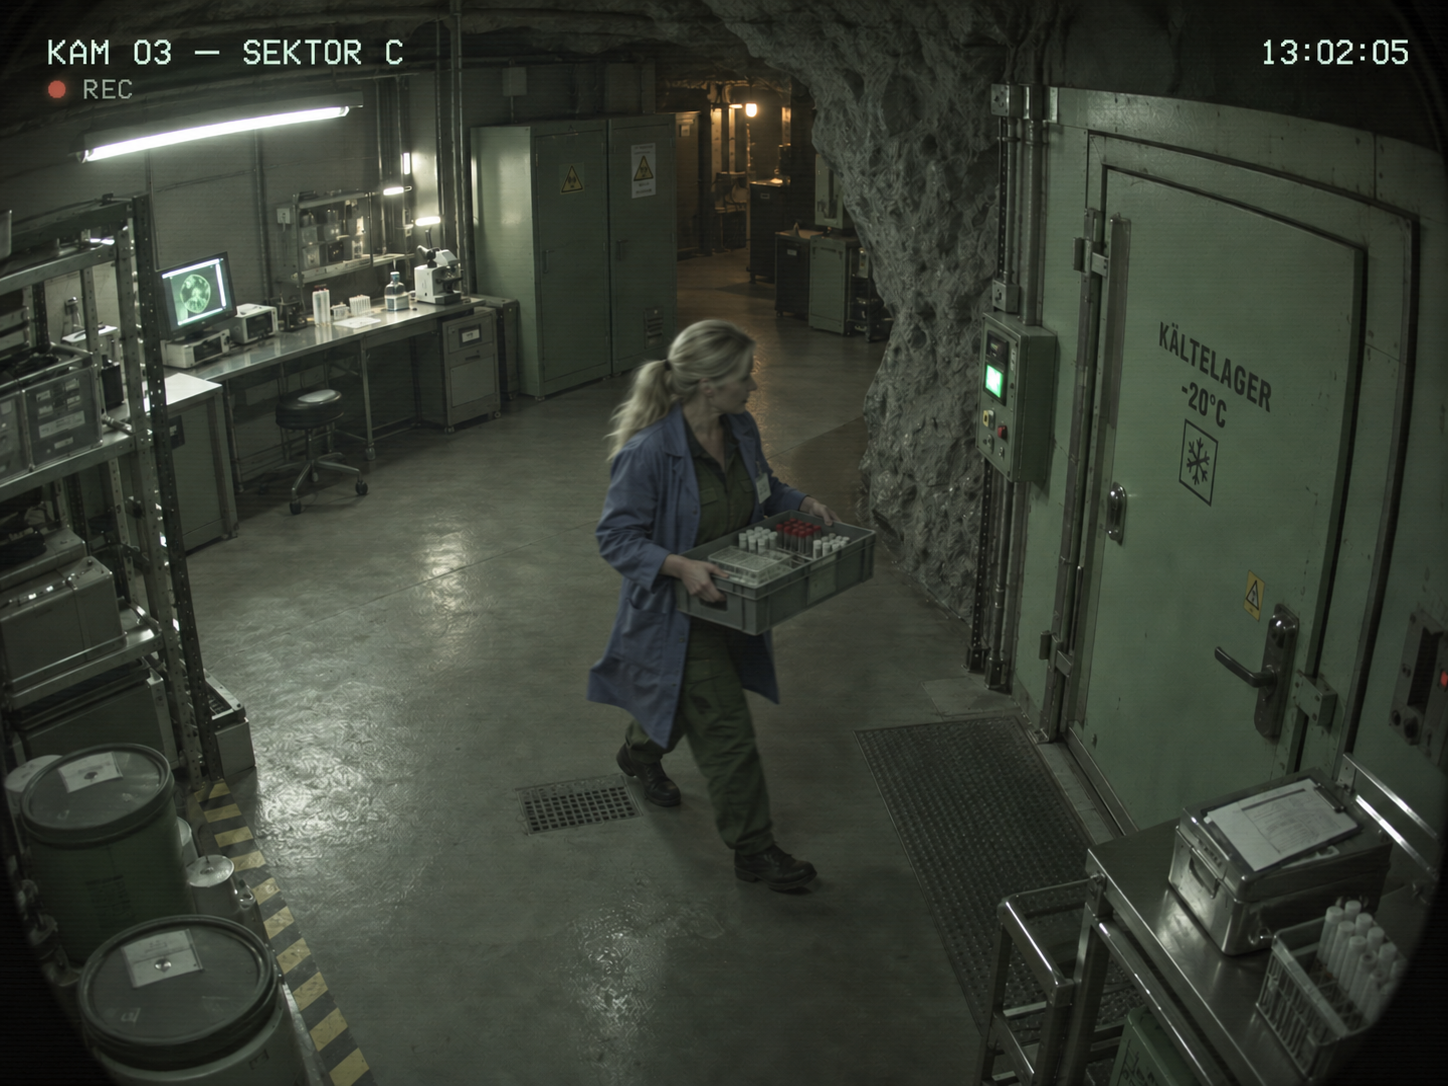
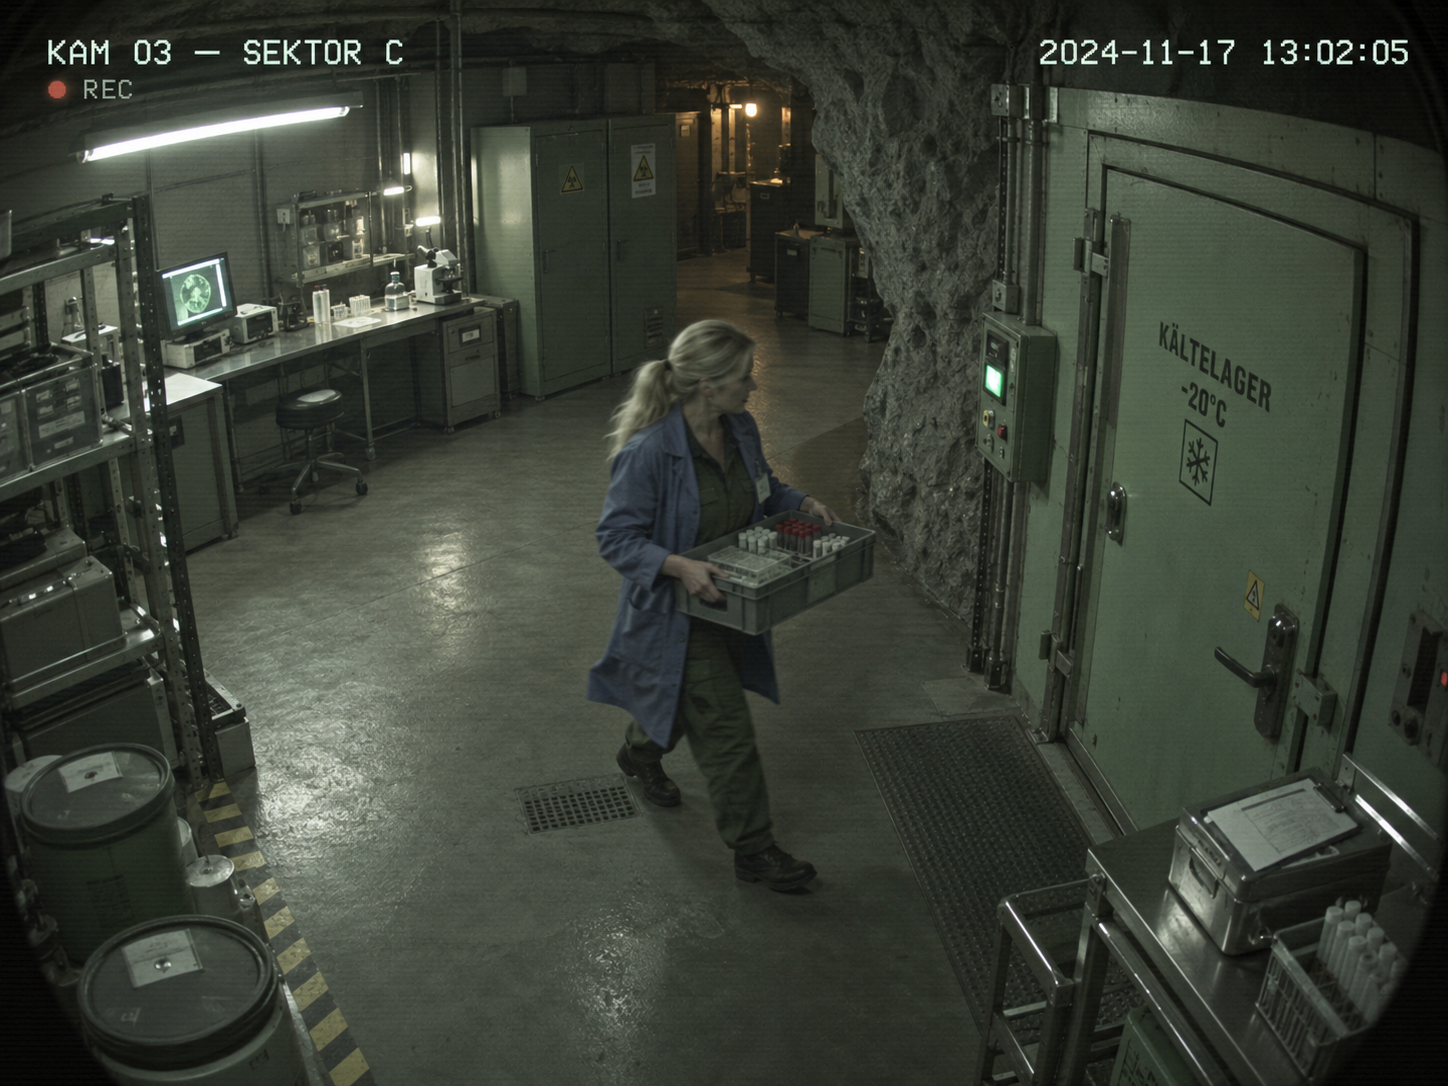
Riktiga porträtt + exit-panel + kamera-låsning + NUC-snabbguide
Kopplar in riktiga övervakningsbilder (Ravi/Maj/Tomas/Iris + Dana). Lägger till
FacilitatorControls (Paus/Nollställ/Avsluta→skrivbordet, med bekräftelse) + store
quitStation/quit-synk, speglat mot Förhandlingen. Dino-Lite-låsning: config.cameraLabel
('dino' matchar 'Dino-Lite Premier') + kamera-dropdown som manuell reserv i mikroskopet;
kiosk.sh auto-godkänner kamera (--use-fake-ui-for-media-stream). Snabbguide för NUC:
två skärmar, skrivbordsstart, INGEN autostart (deploy/nuc/SNABBGUIDE.md).

13 tester gröna, bygge rent.

Changed region(s): [[0.7148, 0.0304, 0.8702, 0.0608], [0.1865, 0.6989, 0.2486, 0.7901], [0.9012, 0.0304, 0.9323, 0.0608]]

diff --git a/src/stations/undersokningen/components/Microscope.vue b/src/stations/undersokningen/components/Microscope.vue
@@ -1,11 +1,12 @@
 <script setup lang="ts">
 /**
- * Dino-Lite-vy (labb-sidan). Mikroskopet ansluts som en vanlig USB-webbkamera —
- * öppnas via getUserMedia och väljer automatiskt den `videoinput` vars namn
- * innehåller "dino". Portad från den fristående public/mikroskop/index.html.
- * Tål att ingen kamera finns (visar ett meddelande istället för att krascha).
+ * Dino-Lite-vy (labb-sidan). Mikroskopet ansluts som en USB-webbkamera och
+ * väljs automatiskt på namnet (config.cameraLabel, "dino" → "Dino-Lite Premier").
+ * En kamera-dropdown finns som manuell reserv ifall auto-valet missar på NUC:en.
+ * Portad från public/mikroskop/index.html. Tål att ingen kamera finns.
  */
 import { ref, onMounted, onBeforeUnmount } from 'vue'
+import { config } from '@/config'
 import { useI18n } from '@/station-kit/i18n'
 import Icon from './Icon.vue'
 
@@ -14,11 +15,20 @@ const video = ref<HTMLVideoElement | null>(null)
 const msg = ref<string>('')
 const mirror = ref(false)
 const frozen = ref(false)
+const cameras = ref<MediaDeviceInfo[]>([])
+const currentId = ref<string>('')
 let stream: MediaStream | null = null
 
-function pickDino(devices: MediaDeviceInfo[]): string | undefined {
-  const dino = devices.find((d) => /dino/i.test(d.label))
-  return (dino ?? devices[0])?.deviceId
+function pickDevice(devices: MediaDeviceInfo[]): string | undefined {
+  const needle = config.cameraLabel.toLowerCase()
+  const match = devices.find((d) => d.label.toLowerCase().includes(needle))
+  return (match ?? devices[0])?.deviceId
+}
+
+async function listCameras(): Promise<MediaDeviceInfo[]> {
+  const devices = (await navigator.mediaDevices.enumerateDevices()).filter((d) => d.kind === 'videoinput')
+  cameras.value = devices
+  return devices
 }
 
 async function start(deviceId?: string): Promise<MediaDeviceInfo[] | undefined> {
@@ -37,7 +47,9 @@ async function start(deviceId?: string): Promise<MediaDeviceInfo[] | undefined> 
       void video.value.play().catch(() => {})
     }
     msg.value = ''
-    return (await navigator.mediaDevices.enumerateDevices()).filter((d) => d.kind === 'videoinput')
+    const track = stream.getVideoTracks()[0]
+    currentId.value = track?.getSettings().deviceId ?? deviceId ?? ''
+    return await listCameras()
   } catch (err) {
     const e = err as DOMException
     msg.value = `${t('mikroskop.failed')} (${e.name})`
@@ -45,6 +57,10 @@ async function start(deviceId?: string): Promise<MediaDeviceInfo[] | undefined> 
   }
 }
 
+function onPick(e: Event): void {
+  const id = (e.target as HTMLSelectElement).value
+  if (id) void start(id)
+}
 function toggleMirror(): void {
   mirror.value = !mirror.value
 }
@@ -62,9 +78,8 @@ onMounted(async () => {
   }
   const devices = await start()
   if (devices && devices.length) {
-    const want = pickDino(devices)
-    const current = stream?.getVideoTracks()[0]?.getSettings().deviceId
-    if (want && want !== current) await start(want)
+    const want = pickDevice(devices)
+    if (want && want !== currentId.value) await start(want)
   }
 })
 
@@ -78,13 +93,14 @@ onBeforeUnmount(() => {
     <div class="scope__head">
       <Icon name="mikroskop" :size="18" />
       <span class="scope__title">{{ t('mikroskop.title') }}</span>
+      <select v-if="cameras.length > 1" class="scope__cam" :value="currentId" @change="onPick">
+        <option v-for="(c, i) in cameras" :key="c.deviceId" :value="c.deviceId">
+          {{ c.label || ('Kamera ' + (i + 1)) }}
+        </option>
+      </select>
       <div class="scope__tools">
-        <button class="scope__btn" :class="{ 'scope__btn--on': mirror }" @click="toggleMirror">
-          {{ t('mikroskop.mirror') }}
-        </button>
-        <button class="scope__btn" :class="{ 'scope__btn--on': frozen }" @click="toggleFreeze">
-          {{ t('mikroskop.freeze') }}
-        </button>
+        <button class="scope__btn" :class="{ 'scope__btn--on': mirror }" @click="toggleMirror">{{ t('mikroskop.mirror') }}</button>
+        <button class="scope__btn" :class="{ 'scope__btn--on': frozen }" @click="toggleFreeze">{{ t('mikroskop.freeze') }}</button>
       </div>
     </div>
     <div class="scope__stage">
@@ -99,74 +115,21 @@ onBeforeUnmount(() => {
 </template>
 
 <style scoped>
-.scope {
-  display: flex;
-  flex-direction: column;
-  min-height: 0;
-  overflow: hidden;
+.scope { display: flex; flex-direction: column; min-height: 0; overflow: hidden; }
+.scope__head { display: flex; align-items: center; gap: 0.5rem; padding: 0.4rem 0.7rem; border-bottom: 1px solid var(--color-primary-dim); }
+.scope__title { font-family: var(--font-retro); letter-spacing: 0.08em; color: var(--color-primary); }
+.scope__cam {
+  font-family: var(--font-mono); font-size: 0.75rem; color: var(--color-ink-muted);
+  background: var(--color-background-2); border: 1px solid var(--color-primary-dim); border-radius: 6px;
+  padding: 0.1em 0.4em; max-width: 12rem;
 }
-.scope__head {
-  display: flex;
-  align-items: center;
-  gap: 0.5rem;
-  padding: 0.4rem 0.7rem;
-  border-bottom: 1px solid var(--color-primary-dim);
-}
-.scope__title {
-  font-family: var(--font-retro);
-  letter-spacing: 0.08em;
-  color: var(--color-primary);
-  flex: 1;
-}
-.scope__tools {
-  display: flex;
-  gap: 0.4rem;
-}
-.scope__btn {
-  font-family: var(--font-mono);
-  font-size: 0.8rem;
-  color: var(--color-ink-muted);
-  background: var(--color-background-2);
-  border: 1px solid var(--color-primary-dim);
-  border-radius: 6px;
-  padding: 0.15em 0.6em;
-  cursor: pointer;
-}
-.scope__btn--on {
-  color: var(--color-ink-strong);
-  border-color: var(--color-primary);
-}
-.scope__stage {
-  position: relative;
-  flex: 1;
-  min-height: 0;
-  display: flex;
-  align-items: center;
-  justify-content: center;
-  background: #000;
-}
-.scope__video {
-  max-width: 100%;
-  max-height: 100%;
-  display: block;
-}
-.scope__video--mirror {
-  transform: scaleX(-1);
-}
-.scope__msg {
-  position: absolute;
-  inset: 0;
-  display: flex;
-  flex-direction: column;
-  align-items: center;
-  justify-content: center;
-  gap: 0.5rem;
-  text-align: center;
-  padding: 1rem;
-  color: var(--color-ink-muted);
-  font-family: var(--font-mono);
-}
-.scope__hint {
-  font-size: 0.8rem;
-}
+.scope__tools { margin-left: auto; display: flex; gap: 0.4rem; }
+.scope__btn { font-family: var(--font-mono); font-size: 0.8rem; color: var(--color-ink-muted); background: var(--color-background-2); border: 1px solid var(--color-primary-dim); border-radius: 6px; padding: 0.15em 0.6em; cursor: pointer; transition: transform 0.14s var(--ease-out); }
+.scope__btn:active { transform: scale(0.96); }
+.scope__btn--on { color: var(--color-ink-strong); border-color: var(--color-primary); }
+.scope__stage { position: relative; flex: 1; min-height: 0; display: flex; align-items: center; justify-content: center; background: #000; }
+.scope__video { max-width: 100%; max-height: 100%; display: block; }
+.scope__video--mirror { transform: scaleX(-1); }
+.scope__msg { position: absolute; inset: 0; display: flex; flex-direction: column; align-items: center; justify-content: center; gap: 0.5rem; text-align: center; padding: 1rem; color: var(--color-ink-muted); font-family: var(--font-mono); }
+.scope__hint { font-size: 0.8rem; }
 </style>

diff --git a/src/stations/undersokningen/components/FacilitatorControls.vue b/src/stations/undersokningen/components/FacilitatorControls.vue
@@ -1,0 +1,60 @@
+<script setup lang="ts">
+/**
+ * Diskret facilitator-kontroll i ett hörn — finns i BÅDE pilot och drift.
+ *   - Paus: fryser och lägger paus-overlay på båda skärmar.
+ *   - Nollställ: tillbaka till attract (med bekräftelse).
+ *   - Avsluta: stänger stationen → tillbaka till skrivbordet (med bekräftelse).
+ */
+import { ref } from 'vue'
+import { useUndersokningenStore } from '../store/undersokningenStore'
+import { useI18n } from '@/station-kit/i18n'
+
+const store = useUndersokningenStore()
+const { t } = useI18n()
+const confirm = ref<'' | 'reset' | 'exit'>('')
+
+function doReset() {
+  confirm.value = ''
+  store.reset()
+}
+function doExit() {
+  confirm.value = ''
+  store.quitStation()
+}
+</script>
+
+<template>
+  <div class="facil">
+    <div v-if="confirm === 'reset'" class="facil__confirm">
+      <span class="facil__confirm-q">{{ t('facil.reset_confirm') }}</span>
+      <div class="facil__confirm-row">
+        <button class="crt-button crt-button--danger facil__btn" @click="doReset">{{ t('facil.reset_yes') }}</button>
+        <button class="crt-button facil__btn" @click="confirm = ''">{{ t('facil.cancel') }}</button>
+      </div>
+    </div>
+    <div v-else-if="confirm === 'exit'" class="facil__confirm">
+      <span class="facil__confirm-q">{{ t('facil.exit_confirm') }}</span>
+      <div class="facil__confirm-row">
+        <button class="crt-button crt-button--danger facil__btn" @click="doExit">{{ t('facil.exit_yes') }}</button>
+        <button class="crt-button facil__btn" @click="confirm = ''">{{ t('facil.cancel') }}</button>
+      </div>
+    </div>
+    <div v-else class="facil__row">
+      <button class="crt-button facil__btn" :class="{ 'crt-button--strong': store.paused }" @click="store.togglePause()">
+        {{ store.paused ? '▶ ' + t('facil.resume') : '⏸ ' + t('facil.pause') }}
+      </button>
+      <button class="crt-button facil__btn facil__dim" @click="confirm = 'reset'">⟲ {{ t('facil.reset') }}</button>
+      <button class="crt-button facil__btn facil__dim" @click="confirm = 'exit'">✕ {{ t('facil.exit') }}</button>
+    </div>
+  </div>
+</template>
+
+<style scoped>
+.facil { position: fixed; left: 0.75rem; bottom: 3rem; z-index: 360; font-family: var(--font-retro); }
+.facil__row, .facil__confirm-row { display: flex; gap: 0.4rem; }
+.facil__confirm { display: flex; flex-direction: column; gap: 0.4rem; background: var(--color-background-2); border: 1px solid var(--color-primary); border-radius: 8px; padding: 0.6rem; box-shadow: 0 0 20px rgba(0, 0, 0, 0.5); }
+.facil__confirm-q { color: var(--color-ink-strong); font-size: 0.95rem; }
+.facil__btn { font-size: 0.9rem; padding: 0.25em 0.7em; opacity: 0.82; }
+.facil__btn:hover { opacity: 1; }
+.facil__dim { color: var(--color-ink-muted); border-color: var(--color-primary-dim); }
+</style>

diff --git a/src/stations/undersokningen/store/undersokningenStore.ts b/src/stations/undersokningen/store/undersokningenStore.ts
@@ -152,6 +152,9 @@ export const useUndersokningenStore = defineStore('undersokningen', () => {
       case 'activity':
         notifyActivity(false)
         break
+      case 'quit':
+        closeWindow()
+        break
     }
   }
 
@@ -247,6 +250,19 @@ export const useUndersokningenStore = defineStore('undersokningen', () => {
   }
   function reset(): void {
     doReset(true)
+  }
+
+  /** Stäng fönstren → tillbaka till skrivbordet (avsluta-knappen). */
+  function closeWindow(): void {
+    try {
+      window.close()
+    } catch {
+      /* kan vara blockerat beroende på hur fönstret öppnats — deploy stänger då */
+    }
+  }
+  function quitStation(): void {
+    seam.value?.transport.send({ kind: 'quit', payload: null })
+    closeWindow()
   }
 
   /* ---------------- härledda värden ---------------- */
@@ -355,6 +371,7 @@ export const useUndersokningenStore = defineStore('undersokningen', () => {
     selectThief,
     confirmThief,
     reset,
+    quitStation,
     setPaused,
     togglePause,
     notifyActivity,

diff --git a/src/stations/undersokningen/UndersokningenApp.vue b/src/stations/undersokningen/UndersokningenApp.vue
@@ -17,6 +17,7 @@ import LabbConsole from './components/LabbConsole.vue'
 import FaltConsole from './components/FaltConsole.vue'
 import VerdictScreen from './components/VerdictScreen.vue'
 import PilotPanel from './components/PilotPanel.vue'
+import FacilitatorControls from './components/FacilitatorControls.vue'
 import Onboarding from './onboarding/Onboarding.vue'
 
 const store = useUndersokningenStore()
@@ -116,6 +117,7 @@ onUnmounted(() => {
 
     <!-- Overlays -->
     <MuteButton class="app__mute" />
+    <FacilitatorControls v-if="entered" />
     <PilotPanel v-if="isPilot && entered" />
     <ModeCountdown v-if="showGoLive" :title="t('mode.golive_title')" :from="3" @done="goLiveDone" />
 

diff --git a/src/config.ts b/src/config.ts
@@ -32,6 +32,12 @@ export const config = {
   /** Monter-skala (bekräfta mot avstånd). 1 = kitets 115%-bas. */
   uiScale: 1,
 
+  /** Dino-Lite-låsning: mikroskopet väljer automatiskt den kamera vars namn
+   *  innehåller denna text (skiftlägesokänsligt). Enheten heter "Dino-Lite
+   *  Premier" på Josefs Mac → "dino" matchar. Byt här om NUC:en rapporterar
+   *  ett annat namn; operatören kan också välja manuellt i dropdownen. */
+  cameraLabel: 'dino',
+
   /** MQTT-broker för fysisk söm (scan över WebSocket). ?mqtt= överrider. */
   mqtt: { url: '' },
   production: { wsUrl: '', mqttUrl: '' },

diff --git a/src/station-kit/i18n/sv.ts b/src/station-kit/i18n/sv.ts
@@ -89,6 +89,15 @@ export const sv: Record<string, string> = {
   'mikroskop.allow': 'Plugga in Dino-Lite och tillåt kameran.',
 
   // --- Facilitator / idle ---
+  'facil.pause': 'Paus',
+  'facil.resume': 'Fortsätt',
+  'facil.reset': 'Nollställ',
+  'facil.reset_confirm': 'Nollställa hela stationen?',
+  'facil.reset_yes': 'Ja, nollställ',
+  'facil.exit': 'Avsluta',
+  'facil.exit_confirm': 'Avsluta och gå till skrivbordet?',
+  'facil.exit_yes': 'Ja, avsluta',
+  'facil.cancel': 'Avbryt',
   'facil.paused_title': 'PAUSAT',
   'facil.paused_sub': 'Facilitatorn har pausat. Vänta ett ögonblick.',
 

diff --git a/deploy/nuc/SNABBGUIDE.md b/deploy/nuc/SNABBGUIDE.md
@@ -1,0 +1,66 @@
+# Snabbguide — Undersökningen på NUC: två skärmar, skrivbordsstart, INGEN autostart
+
+*För första tvåskärms-testet. Samma princip som Förhandlingen: två Chrome-fönster,
+hårdkodat #lag1 (vänster = Valv Syd = LABB/mikroskop) och #lag2 (höger = Valv Nord =
+FÄLT). Här startas den MANUELLT från en skrivbordsikon — inget körs vid boot.*
+
+## Hur tvåfönstret funkar (kort)
+`kiosk.sh` öppnar **två separata Chrome-instanser** (egen profil per fönster),
+positionerade med Chromes egen `--window-position` på vänster resp. höger skärm
+(geometri auto-läses ur `xrandr`). De öppnas med `--app` (helskärm, inga flikar) —
+**inte** `--kiosk`, så appens **Avsluta**-knapp kan stänga dem. Fönstren synkas via
+same-origin **WebSocket-relä** i `server/server.mjs` (båda joinar rum `station3`), så
+de behöver inte dela webbläsarprofil. Servern körs på **port 8080**.
+
+## Installation (Linux Mint)
+
+1. **Logga in i rätt session:** "Cinnamon" (X11), *inte* "Cinnamon on Wayland".
+   Kontroll: `echo $XDG_SESSION_TYPE` → ska svara `x11`.
+2. **Klona + förutsättningar:** Node 20+ och **Google Chrome (.deb)** (bäst för
+   ljudrouting; Chromium funkar också).
+   ```bash
+   git clone https://github.com/2047-Science-Center/undersokningen.git
+   cd undersokningen
+   ```
+3. **Server + bygge** (installerar server-tjänsten på 8080, bygger `dist/` — men
+   sätter INTE upp någon kiosk-autostart):
+   ```bash
+   bash deploy/nuc/install.sh --server-only
+   curl -s localhost:8080/healthz   # → ok
+   ```
+4. **Skrivbordsikoner + monter-inställningar** (släcker skärmsläckare/lås/strömspar,
+   skapar `kiosk.env`). **Kör UTAN `--autostart` och UTAN `--autologin`:**
+   ```bash
+   bash deploy/nuc/mint-setup.sh
+   ```
+   → tre ikoner på skrivbordet: **Starta Undersökningen**, Starta om, Uppdatera.
+
+## Köra
+- **Dubbelklicka "Starta Undersökningen"** → två helskärmsfönster, ett per skärm.
+- **Avsluta:** klicka **✕ Avsluta** i panelen nere till vänster (på valfri skärm) →
+  båda fönstren stängs → tillbaka till skrivbordet. (Panelen har även Paus + Nollställ.)
+- Inget startar vid omstart av datorn — du öppnar den själv från ikonen varje gång.
+
+## Kameran (Dino-Lite) — redan löst
+- Mikroskopet väljer automatiskt enheten vars namn innehåller **"dino"**
+  (enheten heter "Dino-Lite Premier"). Fel kamera? Välj manuellt i **dropdownen** uppe
+  i mikroskop-rutan, eller byt `cameraLabel` i `src/config.ts`.
+- Kiosken startar Chrome med `--use-fake-ui-for-media-stream` → **kamera-tillståndet
+  auto-godkänns** (ingen tillåt-dialog för gruppen). Riktig enhet, bara rutan fakeas.
+
+## Testa på EN skärm först (valfritt)
+Sätt i `deploy/nuc/kiosk.env`: `VALV=syd` (bara vänster/labb-fönstret) eller
+`VALV=nord`. Default `both` = två fönster. Blir höger fönster på fel skärm: sätt
+`LEFT_POS`/`RIGHT_POS` eller `SCREEN_W` i `kiosk.env`.
+
+## Om autostart råkat sättas upp tidigare — städa
+```bash
+systemctl --user disable --now undersokningen-kiosk.service 2>/dev/null
+rm -f ~/.config/systemd/user/undersokningen-kiosk.service
+rm -f ~/.config/autostart/undersokningen-start.desktop
+sudo rm -f /etc/lightdm/lightdm.conf.d/90-undersokningen-autologin.conf
+```
+(Server-tjänsten `undersokningen-server` på 8080 ska vara kvar — den öppnar inga
+fönster, bara servar appen. Vill du att inget alls rör sig vid boot:
+`sudo systemctl disable undersokningen-server`, men starta då servern manuellt
+innan ikonen.)
